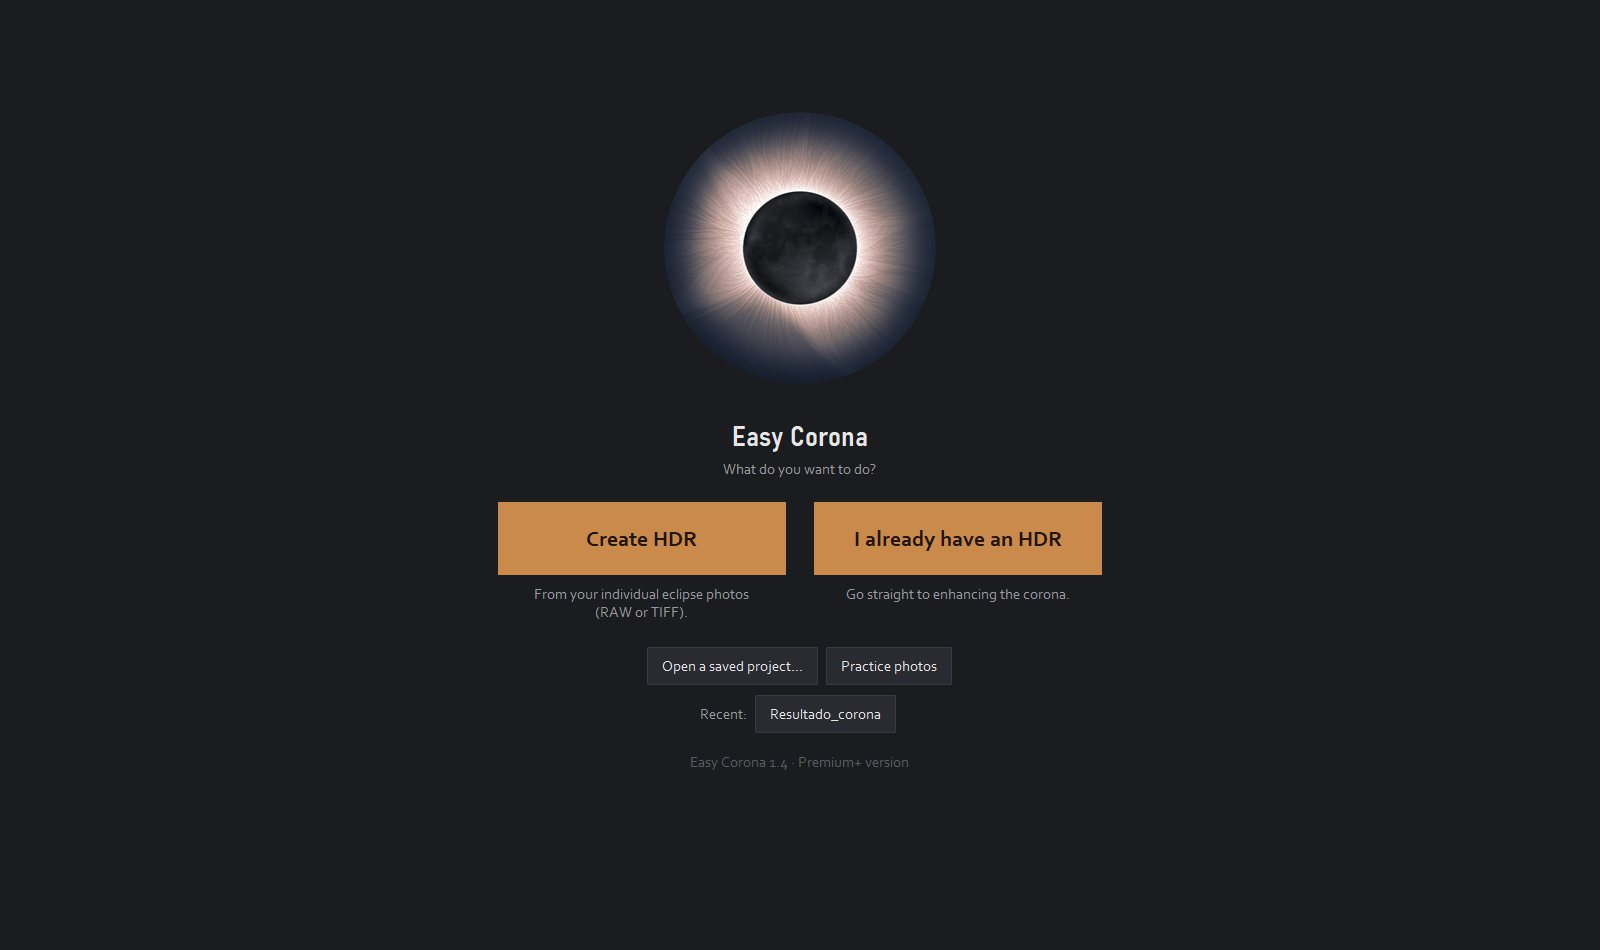
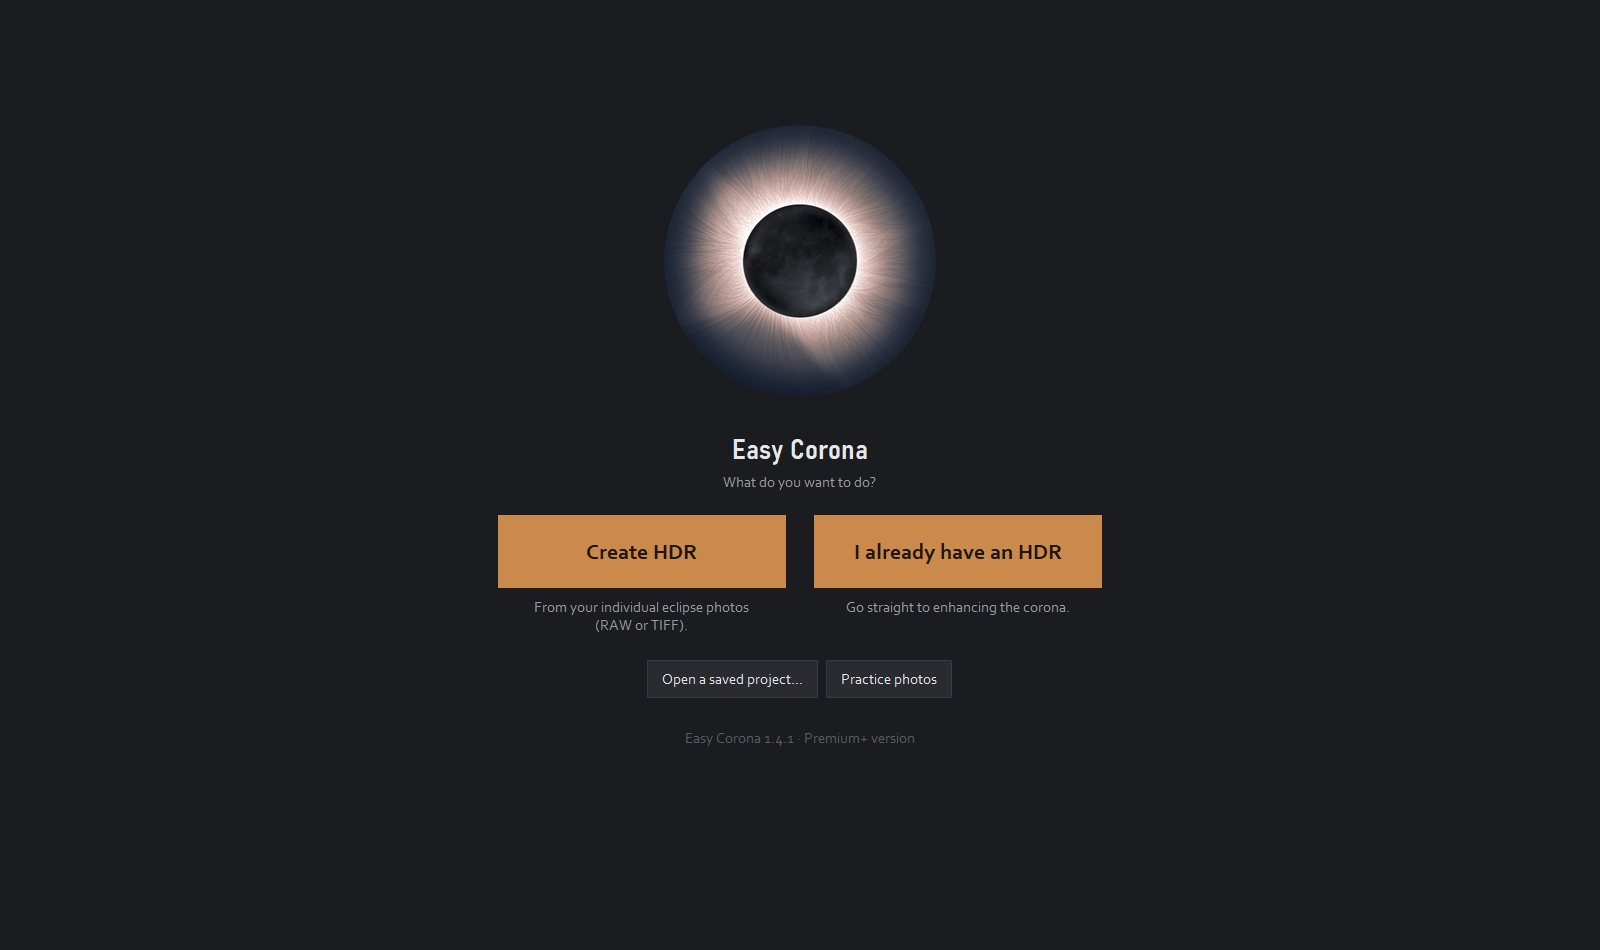
Easy Corona 1.4.1: «Quitar las estrellas» encuentra las deformadas
- Descargas a la release v1.4.1 (portada, gracias y actualizar, en español e inglés)
- Novedades de la 1.4.1 en actualizar/ y en/update/ (las de la 1.4 y la 1.3, aparte)
- Tutorial: «quita también las deformadas»; captura de Inicio con la 1.4.1

Changed region(s): [[0.3125, 0.4579, 0.6875, 0.6716], [0.4375, 0.1221, 0.5625, 0.3968], [0.4062, 0.6716, 0.5938, 0.7937]]

diff --git a/actualizar/index.html b/actualizar/index.html
@@ -3,7 +3,7 @@
 <head>
 <meta charset="utf-8">
 <meta name="viewport" content="width=device-width, initial-scale=1, viewport-fit=cover">
-<title>Easy Corona 1.4 · Actualización</title>
+<title>Easy Corona 1.4.1 · Actualización</title>
 <link rel="icon" type="image/png" href="../img/icono.png">
 <link rel="alternate" hreflang="es" href="https://zu2pic.github.io/actualizar/">
 <link rel="alternate" hreflang="en" href="https://zu2pic.github.io/en/update/">
@@ -201,14 +201,21 @@
   <a class="volver" href="../index.html">← Easy Corona</a>
   <div style="display:grid;gap:12px">
     <p class="etiqueta">Actualización gratuita</p>
-    <h1>Easy Corona 1.4</h1>
+    <h1>Easy Corona 1.4.1</h1>
     <p class="gris">Se instala encima de la versión anterior y conserva tu licencia, tus presets y tus proyectos.</p>
   </div>
 
   <section style="display:grid;gap:14px">
     <h2>Novedades</h2>
     <ul class="novedades gris">
-      <li><b>Quitar las estrellas (beta).</b> Para un cielo limpio: la app quita casi todas las estrellas (también las débiles y la mayoría de las deformadas) y los píxeles calientes, sin volver a poner ninguna. Lo que no se distingue de la corona se queda. En el modo sencillo es la casilla «Quitar las estrellas»; en «Resultado final», el modo «Quitarlas» (junto a «Tal cual» y «Limpias»).</li>
+      <li><b>«Quitar las estrellas» encuentra más.</b> Ahora quita también las estrellas deformadas (las que se movieron durante el apilado y salen como varios puntos juntos) y las de color débiles, que antes se quedaban. «Tal cual» y «Limpias» no cambian.</li>
+    </ul>
+  </section>
+
+  <section style="display:grid;gap:14px">
+    <h2>Si vienes de la 1.3</h2>
+    <ul class="novedades gris">
+      <li><b>Quitar las estrellas (beta).</b> Para un cielo limpio: la app quita casi todas las estrellas (también las débiles y las deformadas) y los píxeles calientes, sin volver a poner ninguna. Lo que no se distingue de la corona se queda. En el modo sencillo es la casilla «Quitar las estrellas»; en «Resultado final», el modo «Quitarlas» (junto a «Tal cual» y «Limpias»).</li>
       <li><b>Mejor relleno donde estaban las estrellas.</b> Sigue los bordes de la corona y copia solo el grano del cielo de al lado: ya no quedan bandas, muescas ni restos del anillo oscuro de las estrellas brillantes. También con «Limpias», y más rápido (la vista previa, en segundo y medio).</li>
     </ul>
   </section>
@@ -224,7 +231,7 @@
 
   <ol class="pasos">
     <li><div>
-      <h2>Descarga la versión 1.4</h2>
+      <h2>Descarga la versión 1.4.1</h2>
       <div class="botones">
         <a class="boton" href="#" data-enlace="windows">Descargar para Windows <small>10 y 11</small></a>
         <a class="boton" href="#" data-enlace="mac_apple">Mac con chip Apple <small>M1 o posterior</small></a>
@@ -239,7 +246,7 @@
     </div></li>
     <li><div>
       <h2>Ábrela</h2>
-      <p class="gris">Arriba verás «Easy Corona 1.4» y tu versión. Si saliera la gratuita, ve a <b>Licencia → Activar licencia…</b> y pega otra vez la clave que te llegó por correo. Cualquier problema: <span class="correo">zu3run@gmail.com</span>.</p>
+      <p class="gris">Arriba verás «Easy Corona 1.4.1» y tu versión. Si saliera la gratuita, ve a <b>Licencia → Activar licencia…</b> y pega otra vez la clave que te llegó por correo. Cualquier problema: <span class="correo">zu3run@gmail.com</span>.</p>
     </div></li>
   </ol>
 </main>
@@ -247,9 +254,9 @@
 <script>
   // Los mismos enlaces de descarga que en la portada.
   const ENLACES = {
-    windows: "https://github.com/zu2pic/zu2pic.github.io/releases/download/v1.4/EasyCorona_Instalador_1.4.exe",
-    mac_apple: "https://github.com/zu2pic/zu2pic.github.io/releases/download/v1.4/EasyCorona_1.4_mac_arm64.dmg",
-    mac_intel: "https://github.com/zu2pic/zu2pic.github.io/releases/download/v1.4/EasyCorona_1.4_mac_x86_64.dmg",
+    windows: "https://github.com/zu2pic/zu2pic.github.io/releases/download/v1.4.1/EasyCorona_Instalador_1.4.1.exe",
+    mac_apple: "https://github.com/zu2pic/zu2pic.github.io/releases/download/v1.4.1/EasyCorona_1.4.1_mac_arm64.dmg",
+    mac_intel: "https://github.com/zu2pic/zu2pic.github.io/releases/download/v1.4.1/EasyCorona_1.4.1_mac_x86_64.dmg",
   };
   document.querySelectorAll("[data-enlace]").forEach((a) => { a.href = ENLACES[a.dataset.enlace]; });
 </script>

diff --git a/en/update/index.html b/en/update/index.html
@@ -3,7 +3,7 @@
 <head>
 <meta charset="utf-8">
 <meta name="viewport" content="width=device-width, initial-scale=1, viewport-fit=cover">
-<title>Easy Corona 1.4 · Update</title>
+<title>Easy Corona 1.4.1 · Update</title>
 <link rel="icon" type="image/png" href="../../img/icono.png">
 <link rel="alternate" hreflang="es" href="https://zu2pic.github.io/actualizar/">
 <link rel="alternate" hreflang="en" href="https://zu2pic.github.io/en/update/">
@@ -194,14 +194,21 @@
   <a class="volver" href="../index.html">← Easy Corona</a>
   <div style="display:grid;gap:12px">
     <p class="etiqueta">Free update</p>
-    <h1>Easy Corona 1.4</h1>
+    <h1>Easy Corona 1.4.1</h1>
     <p class="gris">It installs over the previous version and keeps your license, your presets and your projects.</p>
   </div>
 
   <section style="display:grid;gap:14px">
     <h2>What's new</h2>
     <ul class="novedades gris">
-      <li><b>Remove the stars (beta).</b> For a clean sky: the app removes almost all the stars (the faint ones and most misshapen ones too) and the hot pixels, without putting any back. Whatever can't be told apart from the corona stays. In Simple mode it's the «Remove the stars» checkbox; in «Final result», the «Remove them» mode (next to «As is» and «Clean»).</li>
+      <li><b>«Remove the stars» finds more.</b> It now also removes misshapen stars (the ones that moved during stacking and show up as several dots together) and faint colored stars, which used to stay. «As is» and «Clean» don't change.</li>
+    </ul>
+  </section>
+
+  <section style="display:grid;gap:14px">
+    <h2>If you're coming from 1.3</h2>
+    <ul class="novedades gris">
+      <li><b>Remove the stars (beta).</b> For a clean sky: the app removes almost all the stars (the faint and misshapen ones too) and the hot pixels, without putting any back. Whatever can't be told apart from the corona stays. In Simple mode it's the «Remove the stars» checkbox; in «Final result», the «Remove them» mode (next to «As is» and «Clean»).</li>
       <li><b>Better fill where the stars were.</b> It follows the edges of the corona and copies only the grain of the nearby sky: no more bands, notches or leftovers of the dark ring around bright stars. With «Clean» too, and faster (the preview, in a second and a half).</li>
     </ul>
   </section>
@@ -217,7 +224,7 @@
 
   <ol class="pasos">
     <li><div>
-      <h2>Download version 1.4</h2>
+      <h2>Download version 1.4.1</h2>
       <div class="botones">
         <a class="boton" href="#" data-enlace="windows">Download for Windows <small>10 and 11</small></a>
         <a class="boton" href="#" data-enlace="mac_apple">Mac with Apple silicon <small>M1 or later</small></a>
@@ -232,7 +239,7 @@
     </div></li>
     <li><div>
       <h2>Open it</h2>
-      <p class="gris">At the top you'll see “Easy Corona 1.4” and your version. If the free version showed up, go to <b>License → Activate license…</b> and paste again the key you received by email. Any problem: <span class="correo">zu3run@gmail.com</span>.</p>
+      <p class="gris">At the top you'll see “Easy Corona 1.4.1” and your version. If the free version showed up, go to <b>License → Activate license…</b> and paste again the key you received by email. Any problem: <span class="correo">zu3run@gmail.com</span>.</p>
     </div></li>
   </ol>
 </main>
@@ -240,9 +247,9 @@
 <script>
   // The same download links as on the home page.
   const ENLACES = {
-    windows: "https://github.com/zu2pic/zu2pic.github.io/releases/download/v1.4/EasyCorona_Instalador_1.4.exe",
-    mac_apple: "https://github.com/zu2pic/zu2pic.github.io/releases/download/v1.4/EasyCorona_1.4_mac_arm64.dmg",
-    mac_intel: "https://github.com/zu2pic/zu2pic.github.io/releases/download/v1.4/EasyCorona_1.4_mac_x86_64.dmg",
+    windows: "https://github.com/zu2pic/zu2pic.github.io/releases/download/v1.4.1/EasyCorona_Instalador_1.4.1.exe",
+    mac_apple: "https://github.com/zu2pic/zu2pic.github.io/releases/download/v1.4.1/EasyCorona_1.4.1_mac_arm64.dmg",
+    mac_intel: "https://github.com/zu2pic/zu2pic.github.io/releases/download/v1.4.1/EasyCorona_1.4.1_mac_x86_64.dmg",
   };
   document.querySelectorAll("[data-enlace]").forEach((a) => { a.href = ENLACES[a.dataset.enlace]; });
 </script>

diff --git a/tutorial/index.html b/tutorial/index.html
@@ -395,7 +395,7 @@
           <li><b>Color del cielo</b>: el azul y su tono.</li>
           <li><b>Luna</b>: su gris o «tal cual»; la <b>luz cenicienta</b> y de dónde sale: tus fotos largas (<span class="ui">Elegir fotos…</span>, de cualquier carpeta) o el propio HDR (<span class="ui">Del HDR</span>, solo si de verdad se ven los mares).</li>
           <li><b>Cromosfera y protuberancias</b>: las fotos rápidas se apilan aparte, borrando la Luna de cada una, y se añaden al final, nítidas y con una sola Luna. <span class="ui">Exposición</span> las hace más claras u oscuras.</li>
-          <li><b>Estrellas</b> <span class="beta">beta</span>: tres modos. <span class="ui">Tal cual</span>: como salen del realce. <span class="ui">Limpias</span>: las quita con el anillo oscuro que les dejan los filtros y las vuelve a poner limpias, con <span class="ui">Cuántas</span> y <span class="ui">Brillo</span>. <span class="ui">Quitarlas</span>: un cielo limpio, sin volver a poner ninguna (quita también las débiles y la mayoría de las deformadas; lo que no se distingue de la corona se queda). Además, <span class="ui">Guardar máscara…</span> (un TIFF de 16 bits del tamaño del resultado; blanco = estrella con su halo) y <span class="ui">Buscar otra vez</span>. Los píxeles calientes que quedaron en el apilado (puntos rojos o azules) se quitan también.</li>
+          <li><b>Estrellas</b> <span class="beta">beta</span>: tres modos. <span class="ui">Tal cual</span>: como salen del realce. <span class="ui">Limpias</span>: las quita con el anillo oscuro que les dejan los filtros y las vuelve a poner limpias, con <span class="ui">Cuántas</span> y <span class="ui">Brillo</span>. <span class="ui">Quitarlas</span>: un cielo limpio, sin volver a poner ninguna (quita también las débiles y las deformadas; lo que no se distingue de la corona se queda). Además, <span class="ui">Guardar máscara…</span> (un TIFF de 16 bits del tamaño del resultado; blanco = estrella con su halo) y <span class="ui">Buscar otra vez</span>. Los píxeles calientes que quedaron en el apilado (puntos rojos o azules) se quitan también.</li>
           <li><b>Guardar</b>: la imagen de entrada, la carpeta y el nombre; <span class="ui">Exportar PNG/JPEG para compartir</span>.</li>
         </ul>
       </div>

diff --git a/en/tutorial/index.html b/en/tutorial/index.html
@@ -394,7 +394,7 @@
           <li><b>Sky color</b>: the blue and its hue.</li>
           <li><b>Moon</b>: its gray or «as is»; the <b>earthshine</b> and where it comes from: your long photos (<span class="ui">Choose photos…</span>, from any folder) or the HDR itself (<span class="ui">From the HDR</span>, only if the maria really show).</li>
           <li><b>Chromosphere and prominences</b>: the fast photos are stacked separately, erasing the Moon from each one, and added at the end, sharp and with a single Moon. <span class="ui">Exposure</span> makes them brighter or darker.</li>
-          <li><b>Stars</b> <span class="beta">beta</span>: three modes. <span class="ui">As is</span>: as they come out of the enhancement. <span class="ui">Clean</span>: removes them with the dark ring the filters leave around them and puts them back clean, with <span class="ui">How many</span> and <span class="ui">Brightness</span>. <span class="ui">Remove them</span>: a clean sky, without putting any back (it also removes the faint ones and most misshapen ones; whatever can't be told apart from the corona stays). Also <span class="ui">Save mask…</span> (a 16-bit TIFF the size of the result; white = star with its halo) and <span class="ui">Search again</span>. The hot pixels left in the stack (red or blue dots) are removed too.</li>
+          <li><b>Stars</b> <span class="beta">beta</span>: three modes. <span class="ui">As is</span>: as they come out of the enhancement. <span class="ui">Clean</span>: removes them with the dark ring the filters leave around them and puts them back clean, with <span class="ui">How many</span> and <span class="ui">Brightness</span>. <span class="ui">Remove them</span>: a clean sky, without putting any back (it also removes the faint and misshapen ones; whatever can't be told apart from the corona stays). Also <span class="ui">Save mask…</span> (a 16-bit TIFF the size of the result; white = star with its halo) and <span class="ui">Search again</span>. The hot pixels left in the stack (red or blue dots) are removed too.</li>
           <li><b>Save</b>: the input image, the folder and the name; <span class="ui">Export PNG/JPEG for sharing</span>.</li>
         </ul>
       </div>

diff --git a/index.html b/index.html
@@ -410,7 +410,7 @@
           <a class="boton boton-principal" href="#mac">Descargar gratis <small>Mac</small></a>
           <a class="boton boton-secundario" href="#antes">Ver el antes y después</a>
         </div>
-        <p class="portada-datos">Windows 10 y 11 · macOS 15 o posterior · en español e inglés · versión 1.4</p>
+        <p class="portada-datos">Windows 10 y 11 · macOS 15 o posterior · en español e inglés · versión 1.4.1</p>
       </div>
     </div>
     <p class="credito">Foto: Iker Zubizarreta</p>
@@ -654,9 +654,9 @@
   // Enlaces de la tienda y de la descarga: se rellenan cuando existan.
   // Mientras estén vacíos, los botones avisan en vez de llevar a ninguna parte.
   const ENLACES = {
-    windows: "https://github.com/zu2pic/zu2pic.github.io/releases/download/v1.4/EasyCorona_Instalador_1.4.exe",
-    mac_apple: "https://github.com/zu2pic/zu2pic.github.io/releases/download/v1.4/EasyCorona_1.4_mac_arm64.dmg",
-    mac_intel: "https://github.com/zu2pic/zu2pic.github.io/releases/download/v1.4/EasyCorona_1.4_mac_x86_64.dmg",
+    windows: "https://github.com/zu2pic/zu2pic.github.io/releases/download/v1.4.1/EasyCorona_Instalador_1.4.1.exe",
+    mac_apple: "https://github.com/zu2pic/zu2pic.github.io/releases/download/v1.4.1/EasyCorona_1.4.1_mac_arm64.dmg",
+    mac_intel: "https://github.com/zu2pic/zu2pic.github.io/releases/download/v1.4.1/EasyCorona_1.4.1_mac_x86_64.dmg",
     premium: "https://buy.stripe.com/8x2eVe9Q7eXH8QddbUbo401",
     premium_plus: "https://buy.stripe.com/14AcN63rJeXH0jH0p8bo402",
   };

diff --git a/en/index.html b/en/index.html
@@ -410,7 +410,7 @@
           <a class="boton boton-principal" href="#mac">Free download <small>Mac</small></a>
           <a class="boton boton-secundario" href="#antes">See the before and after</a>
         </div>
-        <p class="portada-datos">Windows 10 and 11 · macOS 15 or later · in English and Spanish · version 1.4</p>
+        <p class="portada-datos">Windows 10 and 11 · macOS 15 or later · in English and Spanish · version 1.4.1</p>
       </div>
     </div>
     <p class="credito">Photo: Iker Zubizarreta</p>
@@ -657,9 +657,9 @@
 <script>
   // Store and download links (the same as on the Spanish page).
   const ENLACES = {
-    windows: "https://github.com/zu2pic/zu2pic.github.io/releases/download/v1.4/EasyCorona_Instalador_1.4.exe",
-    mac_apple: "https://github.com/zu2pic/zu2pic.github.io/releases/download/v1.4/EasyCorona_1.4_mac_arm64.dmg",
-    mac_intel: "https://github.com/zu2pic/zu2pic.github.io/releases/download/v1.4/EasyCorona_1.4_mac_x86_64.dmg",
+    windows: "https://github.com/zu2pic/zu2pic.github.io/releases/download/v1.4.1/EasyCorona_Instalador_1.4.1.exe",
+    mac_apple: "https://github.com/zu2pic/zu2pic.github.io/releases/download/v1.4.1/EasyCorona_1.4.1_mac_arm64.dmg",
+    mac_intel: "https://github.com/zu2pic/zu2pic.github.io/releases/download/v1.4.1/EasyCorona_1.4.1_mac_x86_64.dmg",
     premium: "https://buy.stripe.com/8x2eVe9Q7eXH8QddbUbo401?locale=en&client_reference_id=en",
     premium_plus: "https://buy.stripe.com/14AcN63rJeXH0jH0p8bo402?locale=en&client_reference_id=en",
   };

diff --git a/gracias/index.html b/gracias/index.html
@@ -230,9 +230,9 @@
 <script>
   // Los mismos enlaces de descarga que en la portada.
   const ENLACES = {
-    windows: "https://github.com/zu2pic/zu2pic.github.io/releases/download/v1.4/EasyCorona_Instalador_1.4.exe",
-    mac_apple: "https://github.com/zu2pic/zu2pic.github.io/releases/download/v1.4/EasyCorona_1.4_mac_arm64.dmg",
-    mac_intel: "https://github.com/zu2pic/zu2pic.github.io/releases/download/v1.4/EasyCorona_1.4_mac_x86_64.dmg",
+    windows: "https://github.com/zu2pic/zu2pic.github.io/releases/download/v1.4.1/EasyCorona_Instalador_1.4.1.exe",
+    mac_apple: "https://github.com/zu2pic/zu2pic.github.io/releases/download/v1.4.1/EasyCorona_1.4.1_mac_arm64.dmg",
+    mac_intel: "https://github.com/zu2pic/zu2pic.github.io/releases/download/v1.4.1/EasyCorona_1.4.1_mac_x86_64.dmg",
   };
   document.querySelectorAll("[data-enlace]").forEach((a) => { a.href = ENLACES[a.dataset.enlace]; });
 </script>

diff --git a/en/thanks/index.html b/en/thanks/index.html
@@ -222,9 +222,9 @@
 <script>
   // The same download links as on the home page.
   const ENLACES = {
-    windows: "https://github.com/zu2pic/zu2pic.github.io/releases/download/v1.4/EasyCorona_Instalador_1.4.exe",
-    mac_apple: "https://github.com/zu2pic/zu2pic.github.io/releases/download/v1.4/EasyCorona_1.4_mac_arm64.dmg",
-    mac_intel: "https://github.com/zu2pic/zu2pic.github.io/releases/download/v1.4/EasyCorona_1.4_mac_x86_64.dmg",
+    windows: "https://github.com/zu2pic/zu2pic.github.io/releases/download/v1.4.1/EasyCorona_Instalador_1.4.1.exe",
+    mac_apple: "https://github.com/zu2pic/zu2pic.github.io/releases/download/v1.4.1/EasyCorona_1.4.1_mac_arm64.dmg",
+    mac_intel: "https://github.com/zu2pic/zu2pic.github.io/releases/download/v1.4.1/EasyCorona_1.4.1_mac_x86_64.dmg",
   };
   document.querySelectorAll("[data-enlace]").forEach((a) => { a.href = ENLACES[a.dataset.enlace]; });
 </script>
